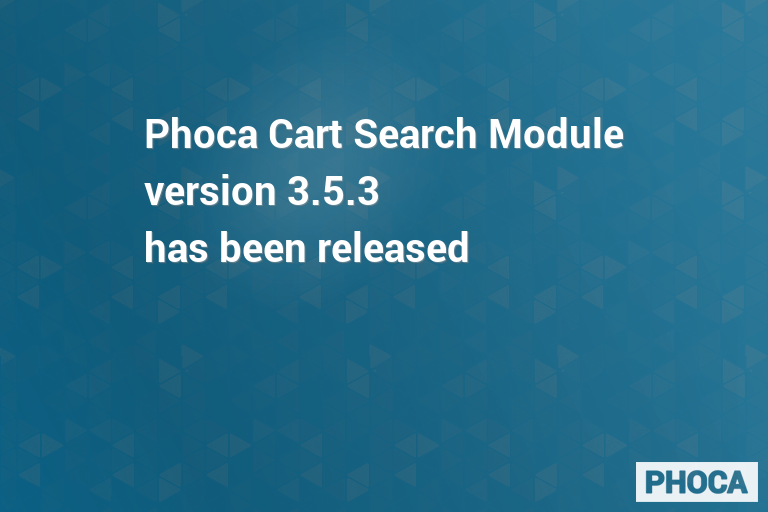
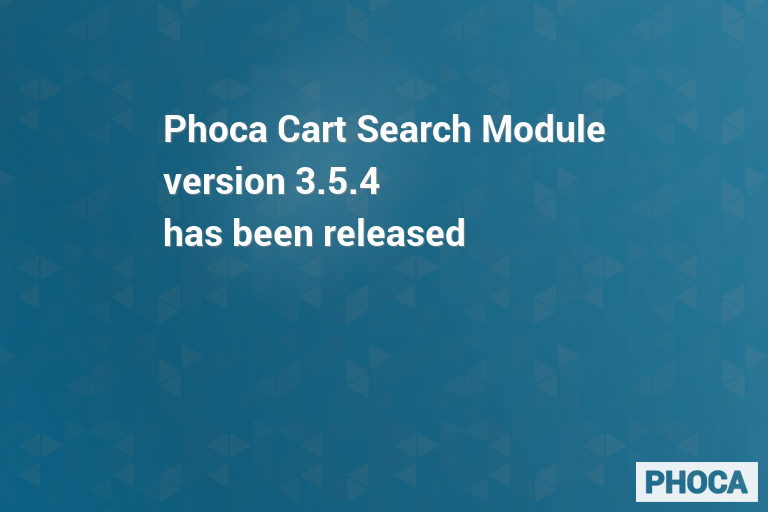
3.5.4
3.5.4

Changed region(s): [[0.1875, 0.2188, 0.8125, 0.4062], [0.1875, 0.4062, 0.625, 0.5312]]

diff --git a/README.MD b/README.MD
@@ -56,7 +56,7 @@ Phoca Cart Search Module - a Joomla! CMS module which displays searching form - 
 
 ## Version
 
-3.5.3
+3.5.4
 
 
 
